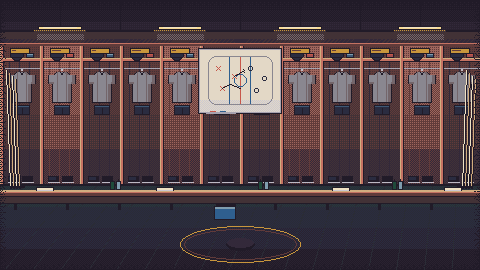
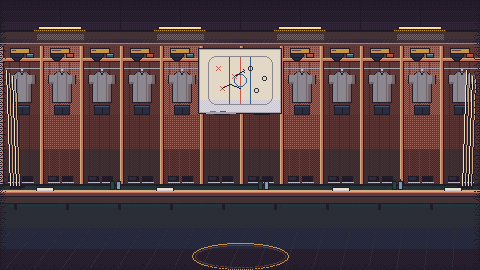
Dressing room: club crest printed on the floor ring, puck bucket removed
The floor ring now frames the user club's crest, drawn from crests.png 3x wide
and 1x tall like a carpet logo, darkened and overlaid with the mat's own pixels
on an ordered pattern (dressing_room_floor.png) so it reads as a floor print.
The ring moved down so the crest shows under the dressing room panel; the blue
bucket under the bench is gone. Everything else in the backdrop is unchanged.

Changed region(s): [[0.375, 0.7407, 0.625, 1.0], [0.4375, 0.8889, 0.5625, 0.9185]]

diff --git a/src/StickAndPuck.App/Screens/ScreenArt.cs b/src/StickAndPuck.App/Screens/ScreenArt.cs
@@ -27,12 +27,18 @@ namespace StickAndPuck.App.Screens
         private static readonly Color RoomDim = new(0x40, 0x3c, 0x4c, 0xff);
         private static readonly Color PanelLight = new(0x33, 0x29, 0x3a, 0xff);
 
+        // the club's crest printed on the dressing room floor: its 16x16 cell 3x wide and 1x tall inside the
+        // floor ring (art/scripts/make_dressing_room.py has the same box), darkened like ink on the mat
+        private static readonly Rectangle FloorCrest = new((Game.Width / 2) - 24, 248, 48, 16);
+        private static readonly Color FloorInk = new(0xc0, 0xb8, 0xb8, 0xff);
+
         private Texture2D title;
         private Maybe<Texture2D> dressingRoom;
         private Maybe<Texture2D> coach;
         private Maybe<Texture2D> coachMoods;
         private Maybe<Texture2D> roomJersey;
         private Maybe<Texture2D> roomTrim;
+        private Maybe<Texture2D> roomFloor;
 
         private ScreenArt(HudArt hud)
         {
@@ -58,30 +64,38 @@ namespace StickAndPuck.App.Screens
                 coachMoods = Optional(Assets.CoachMoods),
                 roomJersey = Optional(Assets.DressingRoomJersey),
                 roomTrim = Optional(Assets.DressingRoomTrim),
+                roomFloor = Optional(Assets.DressingRoomFloor),
             };
             return art;
         }
 
         /// <summary>Draws the dressing room backdrop over the whole frame (A20), the jerseys in the stalls
-        /// tinted with a kit's colours; false while there is none yet.</summary>
-        public bool DrawDressingRoom(KitColours kit)
+        /// tinted with a kit's colours and the club's crest printed on the floor; false while there is none yet.</summary>
+        public bool DrawDressingRoom(KitColours kit, string crest)
         {
             if (!dressingRoom.HasValue)
             {
                 return false;
             }
 
-            DrawRoom(kit, new Rectangle(0, 0, Game.Width, Game.Height), Color.White);
+            DrawRoom(kit, crest, new Rectangle(0, 0, Game.Width, Game.Height), Color.White);
             return true;
         }
 
         /// <summary>Draws a panel over the dressing room backdrop: the room shows through it, dimmed, so the
         /// text over it stays readable (an opaque draw, so the rink never shows through the HUD target).
         /// Returns where the body starts, like <see cref="Panel"/>.</summary>
-        public (int X, int Top) RoomPanel(KitColours kit, string heading, int w, int h, int y)
+        public (int X, int Top) RoomPanel(
+            KitColours kit,
+            string crest,
+            string heading,
+            int w,
+            int h,
+            int y
+        )
         {
             int x = (Game.Width - w) / 2;
-            DrawRoom(kit, new Rectangle(x, y, w, h), RoomDim);
+            DrawRoom(kit, crest, new Rectangle(x, y, w, h), RoomDim);
             DrawRectangleLines(x, y, w, h, Band);
             DrawRectangle(x + 1, y + 1, w - 2, 1, PanelLight);
             DrawRectangle(x + 1, y + 1, 1, h - 2, PanelLight);
@@ -94,8 +108,8 @@ namespace StickAndPuck.App.Screens
             return (x, y + 5 + Row + 2);
         }
 
-        /// <summary>One region of the backdrop and its jersey masks, every layer multiplied by a shade.</summary>
-        private void DrawRoom(KitColours kit, Rectangle area, Color shade)
+        /// <summary>One region of the backdrop, its jersey masks and the floor crest, every layer multiplied by a shade.</summary>
+        private void DrawRoom(KitColours kit, string crest, Rectangle area, Color shade)
         {
             if (!dressingRoom.TryGet(out Texture2D room))
             {
@@ -112,6 +126,13 @@ namespace StickAndPuck.App.Screens
             if (roomTrim.TryGet(out Texture2D trim))
             {
                 DrawTextureRec(trim, area, at, Multiply(HudArt.Hex(kit.Secondary), shade));
+            }
+
+            // the crest goes on the floor only with the overlay that lets the mat show through it
+            if (roomFloor.TryGet(out Texture2D floor))
+            {
+                Hud.DrawCrest(crest, FloorCrest, area, Multiply(FloorInk, shade));
+                DrawTextureRec(floor, area, at, shade);
             }
         }
 

diff --git a/art/scripts/make_dressing_room.py b/art/scripts/make_dressing_room.py
@@ -7,6 +7,9 @@
                             the user club's primary kit colour and draws it over the backdrop.
   dressing_room_trim.png    480x270 white ink mask of the jerseys' stripes and numbers, tinted
                             with the club's secondary colour.
+  dressing_room_floor.png   480x270 the floor's own pixels over the crest spot in the floor ring, on
+                            an ordered pattern; the game prints the user club's crest there and
+                            draws this over it so the crest reads as a print on the floor.
   coach_portrait.png        64x80 coach, neutral (the portrait the screen shows by default).
   coach_moods.png           192x80 the coach as neutral, pleased and angry, 64x80 cells left to right.
 
@@ -45,6 +48,9 @@ DEEP = (140, 140, 140, 255)
 
 STALL_W, STALL_TOP, STALL_BOT = 40, 46, 184
 LIGHTS = (60, 180, 300, 420)     # x of the ceiling lights
+# where the game prints the user club's 16x16 crest on the floor, stretched 3x wide and 1x tall like a
+# carpet logo seen from the bench (ScreenArt.FloorCrest has the same box)
+CREST_X, CREST_Y, CREST_W, CREST_H = W // 2 - 24, 248, 48, 16
 
 
 def dither(img, x, y, w, h, a, b, level):
@@ -245,11 +251,11 @@ def build_backdrop():
     vgrad(img, 0, fy + 2, W, H - fy - 2, [(TEAL_D, STONE_D, 2), (STONE_D, NAVY, 2), (NAVY, PLUM, 2), (PLUM, NIGHT, 2)])
     for x in range(0, W, 24):
         d.line([x, fy + 2, x - 40 + (x - W // 2) // 6, H], fill=STONE_D)
-    # centre logo on the floor: a gold ring with a puck
-    d.ellipse([W // 2 - 60, 226, W // 2 + 60, 262], outline=GOLD_D)
-    d.ellipse([W // 2 - 56, 229, W // 2 + 56, 259], outline=WOOD_D)
-    d.ellipse([W // 2 - 14, 238, W // 2 + 14, 250], fill=INK)
-    d.ellipse([W // 2 - 13, 238, W // 2 + 13, 247], fill=PLUM2)
+    # centre logo on the floor: a gold ring around the spot where the game prints the club's crest, low
+    # enough that it shows under the dressing room panel's bottom edge
+    cx, cy = CREST_X + CREST_W // 2, CREST_Y + CREST_H // 2
+    d.ellipse([cx - 48, cy - 13, cx + 48, cy + 13], outline=GOLD_D)
+    d.ellipse([cx - 45, cy - 11, cx + 45, cy + 11], outline=WOOD_D)
 
     # bench along the stalls: seat, front board and legs
     by0 = fy + 6
@@ -261,7 +267,7 @@ def build_backdrop():
     rect(img, 0, by0 + 13, W, 1, INK)
     for x in range(14, W, 52):
         rect(img, x, by0 + 14, 3, 6, INK)
-    # things on the bench: a towel, water bottles and a bucket of pucks
+    # things on the bench: a towel and water bottles
     for tx in (36, 156, 332, 444):
         rect(img, tx, by0 - 3, 18, 4, INK)
         rect(img, tx + 1, by0 - 2, 16, 2, CREAM)
@@ -271,12 +277,6 @@ def build_backdrop():
             rect(img, wx + k * 6, by0 - 9, 5, 9, INK)
             rect(img, wx + k * 6 + 1, by0 - 8, 3, 7, SKY if k else GREEN_D)
             rect(img, wx + k * 6 + 2, by0 - 11, 1, 2, INK)
-    bkx = 214
-    rect(img, bkx, by0 + 16, 22, 14, INK)
-    rect(img, bkx + 1, by0 + 17, 20, 12, BLUE)
-    rect(img, bkx + 1, by0 + 17, 20, 2, SKY)
-    for k in range(5):
-        rect(img, bkx + 2 + k * 4, by0 + 14 - (k % 2), 4, 3, INK)
 
     # sticks leaning in the corners
     for sx in (6, 466):
@@ -293,9 +293,18 @@ def build_backdrop():
             if e < 6 and (x + y) % (e + 2) == 0:
                 img.putpixel((x, y), INK)
 
+    # the floor print: the room's own floor pixels over the crest's spot on an ordered pattern, drawn over
+    # the crest so the mat's weave shows through it and it reads as printed on the floor, not a sticker
+    floor = Image.new("RGBA", (W, H), CLEAR)
+    for y in range(CREST_Y, CREST_Y + CREST_H):
+        for x in range(CREST_X, CREST_X + CREST_W):
+            if (x + y) % 2 == 0 and (y % 4 < 2 or x % 4 < 2):
+                floor.putpixel((x, y), img.getpixel((x, y)))
+
     img.save(os.path.join(UI, "dressing_room.png"))
     jersey.save(os.path.join(UI, "dressing_room_jersey.png"))
     trim.save(os.path.join(UI, "dressing_room_trim.png"))
+    floor.save(os.path.join(UI, "dressing_room_floor.png"))
     return img, jersey, trim
 
 

diff --git a/src/StickAndPuck.App/Hud/HudArt.cs b/src/StickAndPuck.App/Hud/HudArt.cs
@@ -124,6 +124,42 @@ namespace StickAndPuck.App.Hud
             );
         }
 
+        /// <summary>Draws a club's crest stretched into a box (whole-pixel factors keep it crisp), only the part
+        /// of it inside a clip box, multiplied by a tint. The dressing room prints the crest on its floor so.</summary>
+        public void DrawCrest(string clubId, Rectangle box, Rectangle clip, Color tint)
+        {
+            if (!crests.TryGetValue(clubId, out Rectangle src))
+            {
+                src = crests[crestFallback];
+            }
+
+            float x0 = Math.Max(box.X, clip.X);
+            float y0 = Math.Max(box.Y, clip.Y);
+            float x1 = Math.Min(box.X + box.Width, clip.X + clip.Width);
+            float y1 = Math.Min(box.Y + box.Height, clip.Y + clip.Height);
+            if (x1 <= x0 || y1 <= y0)
+            {
+                return;
+            }
+
+            float sx = src.Width / box.Width;
+            float sy = src.Height / box.Height;
+            Rectangle part = new(
+                src.X + ((x0 - box.X) * sx),
+                src.Y + ((y0 - box.Y) * sy),
+                (x1 - x0) * sx,
+                (y1 - y0) * sy
+            );
+            DrawTexturePro(
+                crestSheet,
+                part,
+                new Rectangle(x0, y0, x1 - x0, y1 - y0),
+                new(0, 0),
+                0,
+                tint
+            );
+        }
+
         /// <summary>Draws one 8x8 icon.</summary>
         public void DrawIcon(string name, int x, int y)
         {

diff --git a/src/StickAndPuck.App/Screens/DressingRoomScreen.cs b/src/StickAndPuck.App/Screens/DressingRoomScreen.cs
@@ -102,7 +102,7 @@ namespace StickAndPuck.App.Screens
                 )
                 .Select(c => c.Home)
                 .Or(new KitColours());
-            bool room = art.DrawDressingRoom(kit);
+            bool room = art.DrawDressingRoom(kit, season.UserClub);
             DressingRoomReport report = DressingRoomSources.Build(context);
             IReadOnlyList<MenuItem> items = Items();
             bool board = full && report.Board.Count > 0;
@@ -122,7 +122,7 @@ namespace StickAndPuck.App.Screens
                 + 4;
             int py = Math.Max(2, (Game.Height - h - 14) / 2);
             (int x, int top) = room
-                ? art.RoomPanel(kit, Text.Get(K.DressingRoom), PanelW, h, py)
+                ? art.RoomPanel(kit, season.UserClub, Text.Get(K.DressingRoom), PanelW, h, py)
                 : art.Panel(Text.Get(K.DressingRoom), PanelW, h, py);
             int cx = Game.Width / 2;
             art.Centred(Stage(season), cx, top, ScreenArt.Muted);

diff --git a/src/StickAndPuck.App/Screens/CoachTalkScreen.cs b/src/StickAndPuck.App/Screens/CoachTalkScreen.cs
@@ -85,7 +85,7 @@ namespace StickAndPuck.App.Screens
                 )
                 .Select(c => c.Home)
                 .Or(new KitColours());
-            bool room = art.DrawDressingRoom(kit);
+            bool room = art.DrawDressingRoom(kit, season.UserClub);
             DressingRoomContext context = DressingRoomContext.Of(
                 season,
                 Flow.Clubs,
@@ -104,7 +104,7 @@ namespace StickAndPuck.App.Screens
                 + 6;
             int py = Math.Max(2, (Game.Height - h - 14) / 2);
             (int x, int top) = room
-                ? art.RoomPanel(kit, Text.Get(K.PreGameTalk), PanelW, h, py)
+                ? art.RoomPanel(kit, season.UserClub, Text.Get(K.PreGameTalk), PanelW, h, py)
                 : art.Panel(Text.Get(K.PreGameTalk), PanelW, h, py);
 
             string coach = Text.Get(K.RoomCoach);

diff --git a/src/StickAndPuck.App/Screens/TradeOfferScreen.cs b/src/StickAndPuck.App/Screens/TradeOfferScreen.cs
@@ -150,12 +150,12 @@ namespace StickAndPuck.App.Screens
                 )
                 .Select(c => c.Home)
                 .Or(new KitColours());
-            bool room = art.DrawDressingRoom(kit);
+            bool room = art.DrawDressingRoom(kit, season.UserClub);
             IReadOnlyList<MenuItem> items = Items();
             int h = PanelH + (items.Count * ScreenArt.Row);
             int py = Math.Max(2, (Game.Height - h - 14) / 2);
             (int x, int top) = room
-                ? art.RoomPanel(kit, Text.Get(K.TradeOffer), PanelW, h, py)
+                ? art.RoomPanel(kit, season.UserClub, Text.Get(K.TradeOffer), PanelW, h, py)
                 : art.Panel(Text.Get(K.TradeOffer), PanelW, h, py);
             int cx = Game.Width / 2;
             top = DrawCaller(art, season, offer, cx, top);

diff --git a/src/StickAndPuck.App/Core/Assets.cs b/src/StickAndPuck.App/Core/Assets.cs
@@ -80,6 +80,10 @@ namespace StickAndPuck.App.Core
         /// <summary>White ink mask of the dressing room jerseys' stripes and numbers, 480x270, tinted with the club's secondary colour (A20).</summary>
         public const string DressingRoomTrim = "art.ui.dressing_room_trim.png";
 
+        /// <summary>The dressing room floor's own pixels on an ordered pattern over the floor ring's crest spot, 480x270:
+        /// the screen prints the user club's crest there and draws this over it, so the crest reads as a print on the mat.</summary>
+        public const string DressingRoomFloor = "art.ui.dressing_room_floor.png";
+
         /// <summary>The pre-game stats card's versus panel, 300x196 (A22, art/scripts/make_intro_card.py).</summary>
         public const string IntroCard = "art.ui.intro_card.png";
 

diff --git a/tests/StickAndPuck.Tests/Core/DressingRoomArtTests.cs b/tests/StickAndPuck.Tests/Core/DressingRoomArtTests.cs
@@ -15,6 +15,7 @@ namespace StickAndPuck.Tests.Core
                     Assets.DressingRoomBackdrop,
                     Assets.DressingRoomJersey,
                     Assets.DressingRoomTrim,
+                    Assets.DressingRoomFloor,
                 }
             )
             {

diff --git a/docs/DEVELOPMENT.md b/docs/DEVELOPMENT.md
@@ -137,7 +137,7 @@ Club names, colours, rosters and traits are editable files in [data/clubs/{leagu
 
 Models, the rink and stepped animation clips are generated with Blender scripts under `art/scripts/`; `.blend` sources and exported `.glb` files live under `art/`. Aseprite sources and Lua/Python scripts produce the pixel atlases, kits and UI. Keep changes in their scripts and source assets so exports can be regenerated. Run only one Blender job at a time.
 
-The entry scripts describe their expected inputs: `build_player.py`, `anim.py`, `build_scene.py`, `export_arena.py`, `make_kits.py`, `make_ui.py` and `make_dressing_room.py` (the dressing room backdrop, its club-tinted jersey masks and the coach portraits; `make_dressing_room.lua` makes and exports their `.aseprite` sources), and `make_intro_card.py` (the pre-game stats card: versus panel, stat icons, form dots and playstyle badges, with every rect in `art/ui/intro_card.json`; `make_intro_card.lua` makes and exports their `.aseprite` sources).
+The entry scripts describe their expected inputs: `build_player.py`, `anim.py`, `build_scene.py`, `export_arena.py`, `make_kits.py`, `make_ui.py` and `make_dressing_room.py` (the dressing room backdrop, its club-tinted jersey masks, the floor print overlay over the club crest in the floor ring and the coach portraits; `make_dressing_room.lua` makes and exports their `.aseprite` sources), and `make_intro_card.py` (the pre-game stats card: versus panel, stat icons, form dots and playstyle badges, with every rect in `art/ui/intro_card.json`; `make_intro_card.lua` makes and exports their `.aseprite` sources).
 
 `make_kits.py palette` writes the kit colours of every league below the marker in `art/palette/stickandpuck_dusk.gpl` (the post shaders take up to 128 colours, `Render/Palette.MaxColours`, and only player pixels snap to the kit block), then `make_kits.py --league shl|nhl` writes that league's atlases and `art/kits/make_bare.py` the bare-head ones. `make_ui.py crests [club ...]` redraws only `crests.png`, keeping every existing (hand-edited) cell and drawing new or named clubs; then run `make_ui.lua` with `only=crests` (make, then `mode=export`). Never run `make_ui.py all` over the hand-edited UI PNGs.
 
